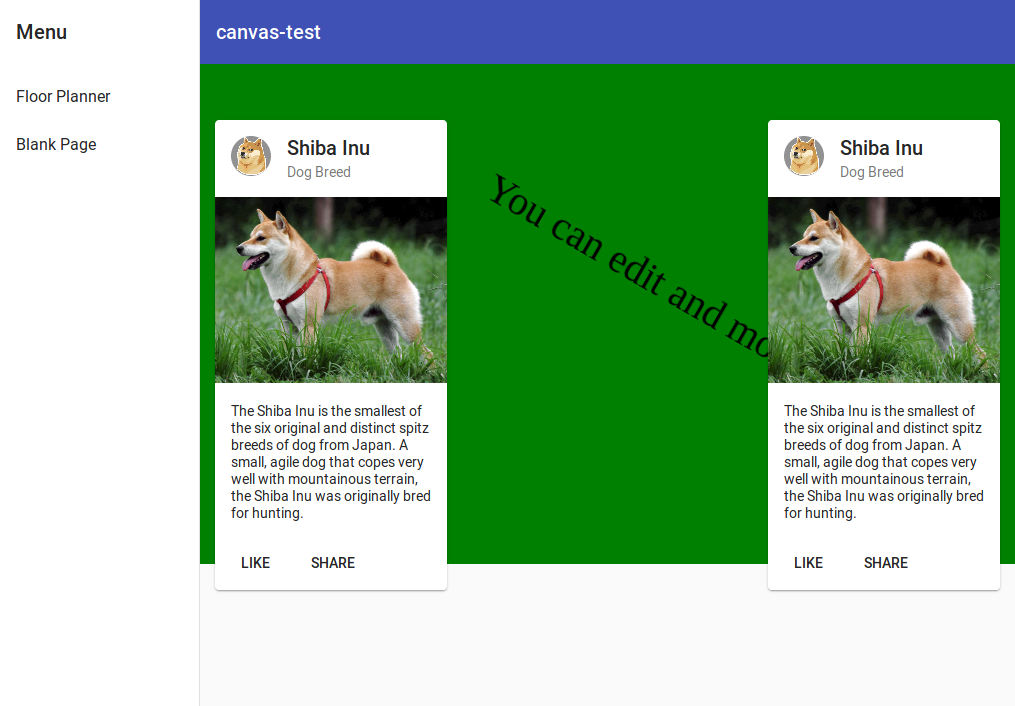
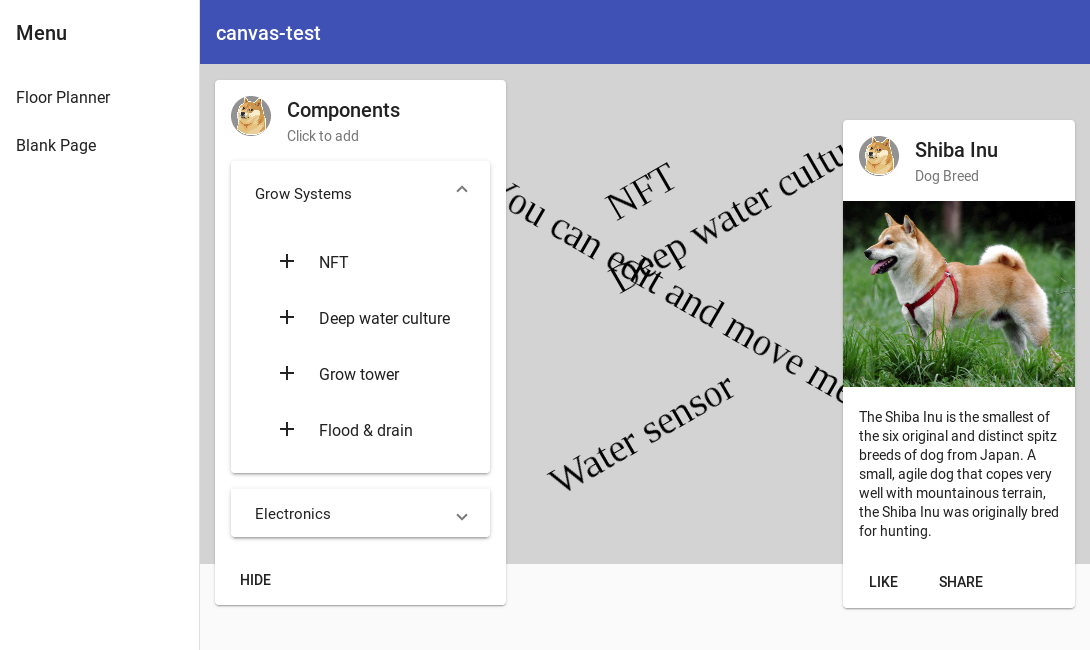
Update the readme to show interaction with canvas
Why:

- Show the latest code version
- This includes Material components to canvas interaction

This change addresses the need by:

- Updating the screenshot
- Adding a list of next steps

diff --git a/README.md b/README.md
@@ -3,18 +3,26 @@
 Test creating a canvas with **fabric.js** and hovering **Material** cards over it. The test also
 shows how to resize the canvas on window resizes and setting its initial size. It is reactive!
 
+Clicking on a list item now adds it to the canvas as a text item.
+
 ![Screenshot](screenshot.png)
 
-Inspired by https://github.com/kevoj/angular-editor-fabric-js
+The next steps include
+
+- Add SVG representations of the components (instead of text)
+- Add constraints to the obejcts (water pumps have to be attached to water pipes)
+- Serialization of the plan
+- Create simulations based on the plan (power use, expected crop yield)
+
+Inspired by kevoj's [angular-editor-fabric-js app](https://github.com/kevoj/angular-editor-fabric-js)
 
 ## Open Issues
 
- - Zooming and panning require a bit of code
- - Decide whether to scale vertically as well
- - Interactive buttons: Material buttons that modify the canvas
+- Zooming and panning require a bit of code
+- Decide whether to scale vertically as well
+- Interactive buttons: Material buttons that modify the canvas
 
 ## Development server
 
 Run `ng serve` for a dev server. Navigate to `http://localhost:4200/`. The app will automatically
 reload if you change any of the source files.
-
